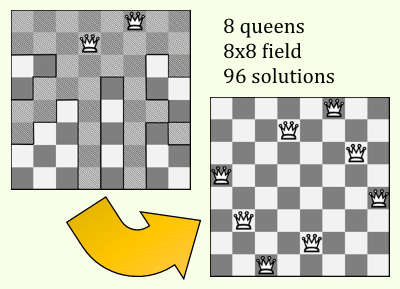
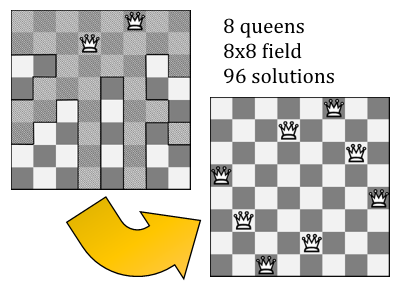
added hybrid.net. nqueens images integrate better with the style now.

diff --git a/index.html b/index.html
@@ -413,6 +413,20 @@
                         <p class="text-muted">Java</p>
                     </div>
                 </div>
+                <div class="portfolio-item col-md-4 col-sm-6" filter="2010 2011 2012 2013 csharp opencl research">
+                    <a href="#projectHybridNet" class="portfolio-link" data-toggle="modal">
+                        <div class="portfolio-hover img-rounded">
+                            <div class="portfolio-hover-content">
+                                <i class="fa fa-eye fa-3x"></i>
+                            </div>
+                        </div>
+                        <img src="img/projects/hybridNet.png" class="img-responsive img-rounded" alt="">
+                    </a>
+                    <div class="portfolio-caption">
+                        <h4>Hybrid.Net</h4>
+                        <p class="text-muted">C#, OpenCL</p>
+                    </div>
+                </div>                
                 <div class="portfolio-item col-md-4 col-sm-6" filter="2011 csharp wp7 contest app research">
                     <a href="#projectCardea" class="portfolio-link" data-toggle="modal">
                         <div class="portfolio-hover img-rounded">
@@ -426,7 +440,7 @@
                         <h4>The Health App</h4>
                         <p class="text-muted">C# and Windows Phone 7</p>
                     </div>
-                </div>
+                </div>                
                 <div class="portfolio-item col-md-4 col-sm-6" filter="2010 ccpp opencl research">
                     <a href="#projectNQueensCUDA" class="portfolio-link" data-toggle="modal">
                         <div class="portfolio-hover img-rounded">
@@ -1173,6 +1187,45 @@
                                 <li>Technologies: Java</li>
                                 <li>Platform: JVM</li>
                                 <li>Context: Hobby + Research Project</li>
+                            </ul>
+                            <button type="button" class="btn btn-primary" data-dismiss="modal"><i class="fa fa-times"></i> Close Project</button>
+                        </div>
+                    </div>
+                </div>
+            </div>
+        </div>
+    </div>
+
+    <!-- Portfolio Modal 1 -->
+    <div class="portfolio-modal modal fade" id="projectHybridNet" tabindex="-1" role="dialog" aria-hidden="true">
+        <div class="modal-content">
+            <div class="close-modal" data-dismiss="modal">
+                <div class="lr">
+                    <div class="rl">
+                    </div>
+                </div>
+            </div>
+            <div class="container">
+                <div class="row">
+                    <div class="col-lg-8 col-lg-offset-2">
+                        <div class="modal-body">
+                            <!-- Project Details Go Here -->
+                            <h2>Hybrid.Net</h2>
+                            <p class="item-intro text-muted">GPU acceleration for free!</p>
+                            <p>Hybrid.Net enables .NET developers to harness the power of GPUs for data- and compute-intense applications using the simple well-known construct: Parallel.For</p>
+                            <p>The idea was to create a library that brings the huge performance potential of OpenCL-compatible devices to .NET developers without forcing them to learn new keywords. Our implementation looks exactly like the Parallel.For that ships with .NET 4.0 (and previously with the Task Parallel Library). It transparently translates the loop body to OpenCL code and executes it on available accelerators.</p>
+                            <p>This project is available on <a href="http://github.com/Feinbube/hybridNet">GitHub</a>.</p>
+                            <h3>Features:</h3>
+                            <ul class="list-group">
+                                <li class="list-group-item">API similar to System.Threading.Tasks.Parallel.For (all you have to do is to exchange the namespace)</li>
+                                <li class="list-group-item">Various modes: single-GPU, all-GPUs, single-CPU, all-CPUs, everything-avaialbe</li>
+                                <li class="list-group-item">Multi-dimensional array support and an additional 2D version of Parallel.For</li>
+                            </ul>
+                            <ul class="list-inline">
+                                <li>Date: 2010-2013</li>
+                                <li>Technologies: C#, OpenCL</li>
+                                <li>Platform: .NET Runtime</li>
+                                <li>Context: Research Project</li>
                             </ul>
                             <button type="button" class="btn btn-primary" data-dismiss="modal"><i class="fa fa-times"></i> Close Project</button>
                         </div>
